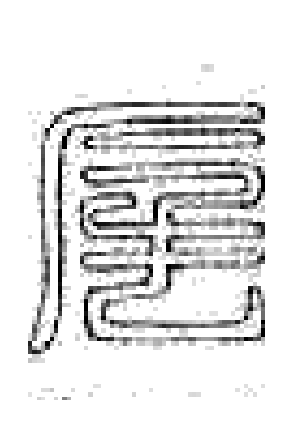
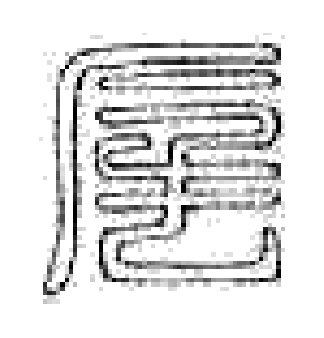
fix: centre the 壽陵 seal crops
Each crop is cut from the character's measured ink bounds and padded equally, so no stroke is clipped and the character sits in the middle.

diff --git a/scripts/build_tangut_script_forms.py b/scripts/build_tangut_script_forms.py
@@ -7,7 +7,7 @@
 Render the plate first, because the book is not in this repository:
 
     pdftoppm -f 8 -l 8 -r 300 -png '李范文（1997）『夏漢字典』.pdf' /tmp/xhzd-page
-    uv run scripts/build_tangut_script_forms.py --page /tmp/xhzd-page-08.png
+    uv run scripts/build_tangut_script_forms.py --page /tmp/xhzd-page-0008.png
 
 The plate is four columns, right to left, four characters top to bottom, in the order of its
 Chinese translation: 大白高國 / 護城聖德 / 至懿皇帝 / 壽陵誌文. Each crop goes to
@@ -24,12 +24,20 @@ ROOT = Path(__file__).resolve().parents[1]
 OUT = ROOT / 'app/public/seal/shouling'
 RECORD = ROOT / 'app/data/tangut-script-forms.json'
 
-# The rendered page is 4517×6409 at 300 dpi. The grid sits at GRID, and each character in one of
-# four columns and four rows.
+# The rendered page is 4517×6409 at 300 dpi. Each box below is the ink bounds of one character,
+# measured on that render; the cutter pads every side equally so no stroke is cut and the
+# character sits in the middle of its crop.
 PAGE = (4517, 6409)
-GRID = (2057, 4326, 4114, 5869)
-COLS = [(298, 565), (683, 928), (1020, 1278), (1366, 1603)]
-ROWS = [(179, 515), (521, 878), (883, 1168), (1182, 1497)]
+BOXES = {
+    '大': (3417, 4546, 3692, 4835), '白': (3413, 4896, 3671, 5168),
+    '高': (3409, 5191, 3666, 5475), '國': (3413, 5515, 3666, 5817),
+    '護': (3063, 4538, 3333, 4844), '城': (3063, 4896, 3321, 5168),
+    '聖': (3067, 5199, 3329, 5463), '德': (3067, 5528, 3346, 5821),
+    '至': (2730, 4538, 3001, 4839), '懿': (2739, 4888, 2996, 5172),
+    '皇': (2734, 5199, 2992, 5467), '帝': (2743, 5515, 2992, 5834),
+    '壽': (2345, 4529, 2625, 4852), '陵': (2350, 4896, 2633, 5177),
+    '誌': (2363, 5208, 2625, 5484), '銘': (2371, 5502, 2625, 5834),
+}
 # Columns right to left; in each, characters top to bottom.
 ORDER = [
     ['大', '白', '高', '國'],
@@ -60,22 +68,18 @@ def main():
     page = Image.open(args.page).convert('L')
     if page.size != PAGE:
         raise SystemExit(f'{args.page}: expected {PAGE[0]}×{PAGE[1]}, found {page.size[0]}×{page.size[1]}')
-    left, top, _, _ = GRID
     OUT.mkdir(parents=True, exist_ok=True)
     forms = []
-    for column, group in enumerate(ORDER):
-        x0, x1 = COLS[3 - column]
-        for row, zh in enumerate(group):
-            y0, y1 = ROWS[row]
-            crop = page.crop((left + x0, top + y0, left + x1, top + y1))
+    for group in ORDER:
+        for zh in group:
+            crop = page.crop(BOXES[zh])
             crop = ImageOps.autocontrast(crop, cutoff=1)
             # Lift the paper to white and keep the line's soft edge.
             crop = crop.point(lambda value: 255 if value > 225 else value)
-            # Pad the ink box so no stroke sits on the image edge.
-            pad_x = max(8, round(crop.width * 0.12))
-            pad_y = max(8, round(crop.height * 0.12))
-            framed = Image.new('L', (crop.width + 2 * pad_x, crop.height + 2 * pad_y), 255)
-            framed.paste(crop, (pad_x, pad_y))
+            # Pad the ink box equally on every side so the character sits centred.
+            pad = max(8, round(max(crop.width, crop.height) * 0.12))
+            framed = Image.new('L', (crop.width + 2 * pad, crop.height + 2 * pad), 255)
+            framed.paste(crop, (pad, pad))
             crop = framed
             char = CHARS[zh]
             name = f'{ord(char):04X}.png'

diff --git a/data/shouling/README.md b/data/shouling/README.md
@@ -22,5 +22,5 @@ Re-cut them with the page rendered at 300 dpi:
 
 ```sh
 pdftoppm -f 8 -l 8 -r 300 -png '李范文（1997）『夏漢字典』.pdf' /tmp/xhzd-page
-uv run scripts/build_tangut_script_forms.py --page /tmp/xhzd-page-08.png
+uv run scripts/build_tangut_script_forms.py --page /tmp/xhzd-page-0008.png
 ```
